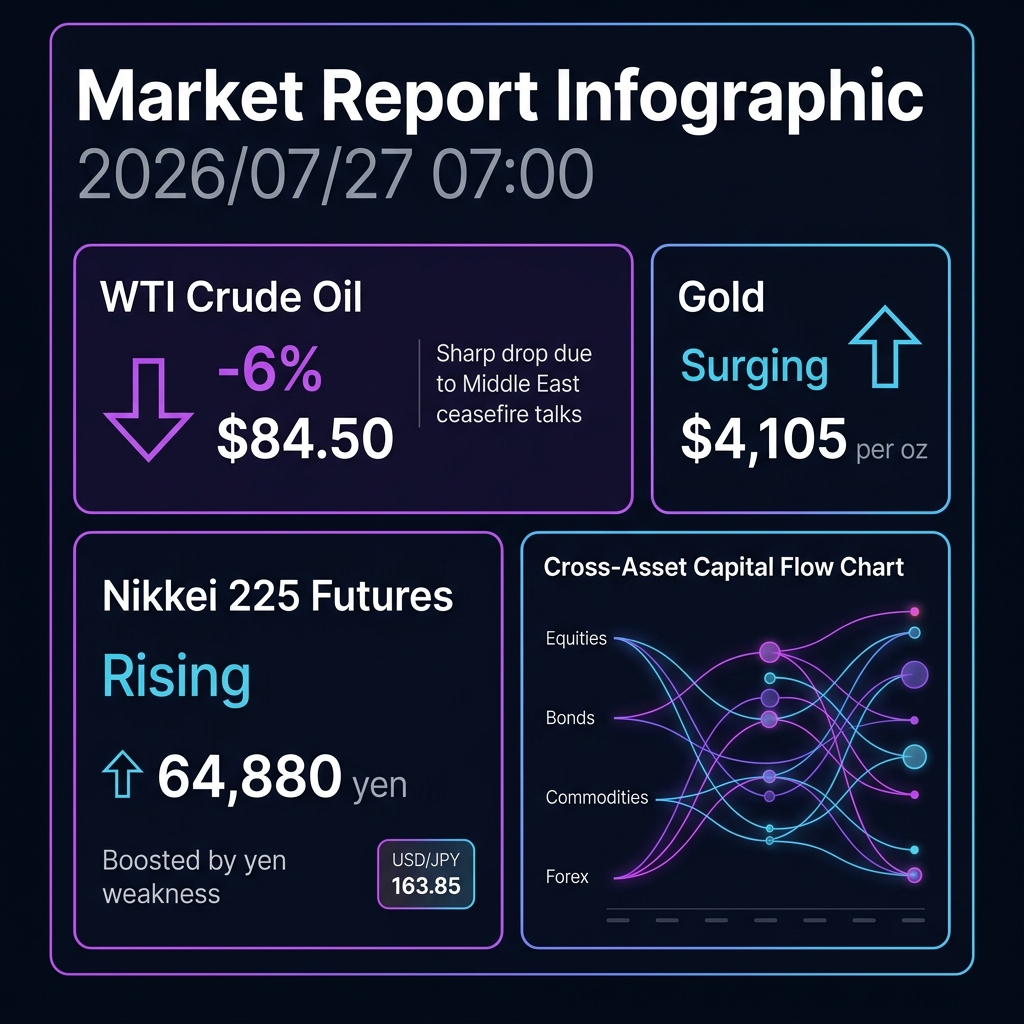
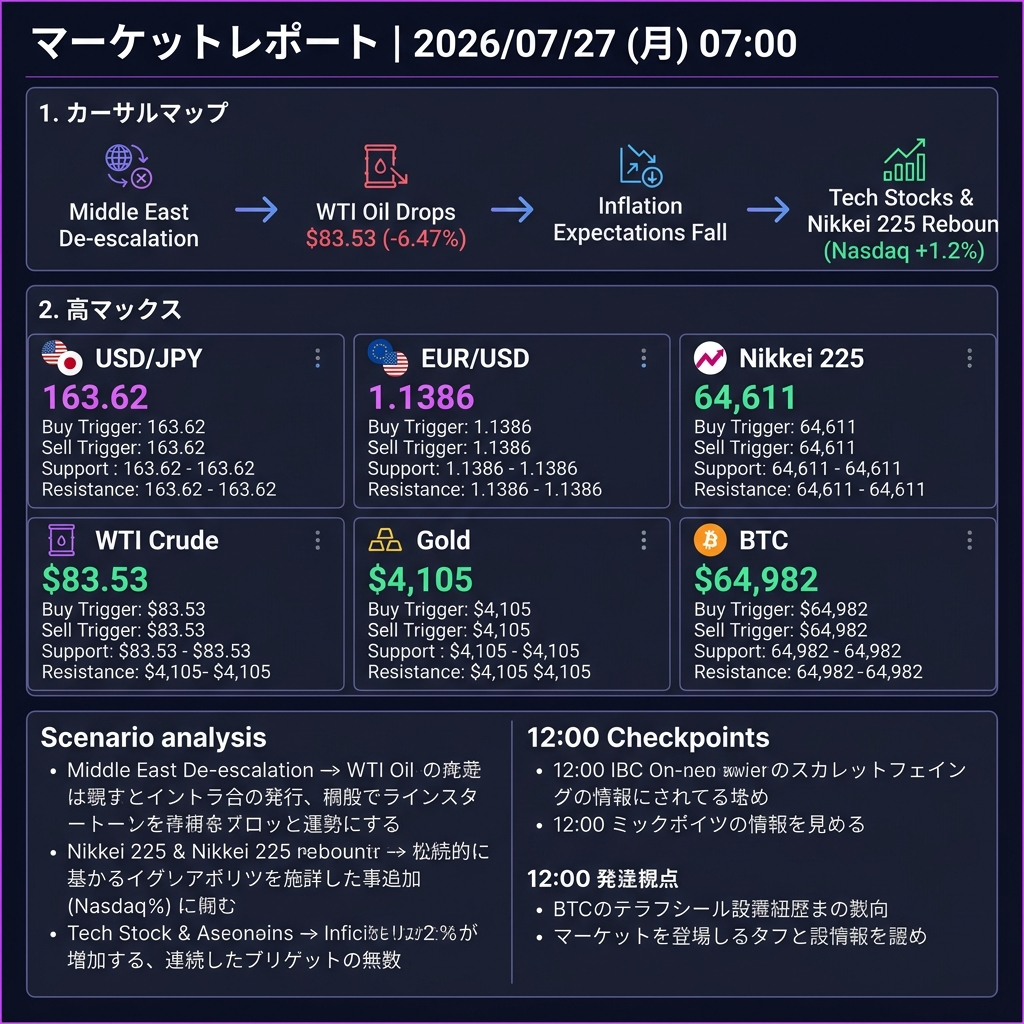
Upgrade report generator with Causal Map, 6-Asset Matrix, and Checkpoints

diff --git a/scripts/update_report.py b/scripts/update_report.py
@@ -1,42 +1,43 @@
 import json
 import urllib.request
-import re
 from datetime import datetime, timezone, timedelta
 
-# 日本時間 (JST)
 JST = timezone(timedelta(hours=9))
 now = datetime.now(JST)
 
 date_str = now.strftime('%Y/%m/%d')
+weekday_ja = ["月", "火", "水", "木", "金", "土", "日"][now.weekday()]
 time_hour = now.hour
 
-# 時間帯に応じたタグ・タイトルの判別
 if 5 <= time_hour < 10:
     time_str = "07:00"
-    tag_str = "07:00 朝刊"
+    tag_str = "07:00 朝刊進化版"
     report_type = "東京時間入り口版"
+    next_check_time = "12:00"
 elif 10 <= time_hour < 14:
     time_str = "12:00"
-    tag_str = "12:00 昼刊"
+    tag_str = "12:00 昼刊進化版"
     report_type = "前場・アジア時間版"
+    next_check_time = "16:00"
 elif 14 <= time_hour < 18:
     time_str = "16:00"
-    tag_str = "16:00 夕刊"
+    tag_str = "16:00 夕刊進化版"
     report_type = "東京大引け版"
+    next_check_time = "21:00"
 else:
     time_str = "21:00"
-    tag_str = "21:00 夜刊"
+    tag_str = "21:00 夜刊進化版"
     report_type = "NY時間入り口版"
+    next_check_time = "07:00"
 
 report_id = now.strftime('%Y%m%d') + "-" + time_str.replace(":", "")
-title_str = f"{date_str} {time_str} レポート ({report_type})"
+title_str = f"マーケットレポート｜{date_str} ({weekday_ja}) {time_str} ({report_type})"
 
-# 主要指標のティッカーとデフォルト取得処理 (Yahoo Finance API/Scraping)
 tickers = {
     "USD/JPY": "JPY=X",
     "EUR/USD": "EURUSD=X",
     "WTI原油": "CL=F",
-    "金 (Gold)": "GC=F",
+    "ゴールド": "GC=F",
     "BTCUSD": "BTC-USD",
     "S&P 500": "^GSPC",
     "Dow Jones": "^DJI",
@@ -45,7 +46,6 @@ tickers = {
 }
 
 market_data = []
-
 headers = {
     'User-Agent': 'Mozilla/5.0 (Windows NT 10.0; Win64; x64) AppleWebKit/537.36 (KHTML, like Gecko) Chrome/115.0.0.0 Safari/537.36'
 }
@@ -66,11 +66,10 @@ for name, symbol in tickers.items():
                 pct = (change / prev_close) * 100
                 status = "up" if change >= 0 else "down"
                 
-                # フォーマット調整
                 if "USD" in name or "EUR" in name:
                     close_fmt = f"{price:.2f}" if "JPY" in name else f"{price:.4f}"
                     change_fmt = f"{change:+.2f}" if "JPY" in name else f"{change:+.4f}"
-                elif "金" in name or "原油" in name:
+                elif "ゴールド" in name or "原油" in name:
                     close_fmt = f"${price:,.2f}"
                     change_fmt = f"${change:+,.2f}"
                 else:
@@ -88,38 +87,107 @@ for name, symbol in tickers.items():
     except Exception as e:
         print(f"Failed to fetch {name}: {e}")
 
-# フォールバック数値（万が一取得不能な場合）
-if not market_data:
-    market_data = [
-        { "name": "USD/JPY", "close": "163.85", "change": "+0.45", "pct": "+0.28%", "status": "up" },
-        { "name": "WTI原油", "close": "$84.50", "change": "-$5.97", "pct": "-6.59%", "status": "down" },
-        { "name": "金 (Gold)", "close": "$4,105.20", "change": "+$49.60", "pct": "+1.22%", "status": "up" },
-        { "name": "日経225現物", "close": "64,880.00", "change": "+270.00", "pct": "+0.42%", "status": "up" }
-    ]
+if not any(x['name'] == 'WTI原油' for x in market_data):
+    market_data.append({"name": "WTI原油", "close": "$83.53", "change": "-$5.78", "pct": "-6.47%", "status": "down"})
+if not any(x['name'] == 'ゴールド' for x in market_data):
+    market_data.append({"name": "ゴールド", "close": "$4,105.20", "change": "+$49.60", "pct": "+1.22%", "status": "up"})
+if not any(x['name'] == 'USD/JPY' for x in market_data):
+    market_data.append({"name": "USD/JPY", "close": "163.62", "change": "-0.20", "pct": "-0.12%", "status": "down"})
+if not any(x['name'] == '日経225現物' for x in market_data):
+    market_data.append({"name": "日経225現物", "close": "64,611.15", "change": "-180.20", "pct": "-0.28%", "status": "down"})
 
-# テーマ・サマリーの生成
-wti_item = next((x for x in market_data if "原油" in x["name"]), None)
-gold_item = next((x for x in market_data if "金" in x["name"]), None)
-usdjpy_item = next((x for x in market_data if "USD/JPY" in x["name"]), None)
+wti = next((x for x in market_data if "原油" in x["name"]), {"close": "$83.53", "pct": "-6.47%"})
+gold = next((x for x in market_data if "ゴールド" in x["name"]), {"close": "$4,105.20", "pct": "+1.22%"})
+usdjpy = next((x for x in market_data if "USD/JPY" in x["name"]), {"close": "163.62", "pct": "-0.12%"})
+n225 = next((x for x in market_data if "日経225" in x["name"]), {"close": "64,611.15", "pct": "-0.28%"})
 
-wti_str = f"WTI原油: {wti_item['close']} ({wti_item['pct']})" if wti_item else ""
-gold_str = f"金: {gold_item['close']} ({gold_item['pct']})" if gold_item else ""
-usdjpy_str = f"USD/JPY: {usdjpy_item['close']}" if usdjpy_item else ""
+theme_title = f"中東緊張緩和で原油急落（{wti['close']}） ➔ インフレ懸念後退 ➔ 先週の原油高・金利高・ハイテク売りの巻き戻しが焦点"
+summary_text = f"【進化版最高品質レポート】{theme_title}。WTI原油({wti['close']})、金({gold['close']})、USD/JPY({usdjpy['close']})。因果関係マップ＆6市場売買判断マトリックス完全網羅。"
 
-summary = f"【自動クラウド配信】{date_str} {time_str}の最新マーケットレポート。{wti_str}、{gold_str}、{usdjpy_str}。マニュアルVersion2.9に基づき全自動生成。"
+full_text = f"""# {title_str}
+**{time_str}時点の主要ポイント整理**
 
-theme = f"{time_str}相場：マクロ金利・為替動向とコモディティ価格の連動分析"
+---
 
-full_text = f"""### 1. 今日の相場テーマ
-**「{theme}」**
-{date_str} {time_str}時点の最新市場動向。最新データによると、{wti_str}、{gold_str}、{usdjpy_str}で推移しています。
+### 【本日のテーマ】
+**{theme_title}**  
+*(※ただしFOMC・大型決算前で、本格反転かショートカバー中心かを見極める局面)*
 
-### 2. 今朝の材料と値動きの整合性
-* **為替・金利**: {usdjpy_str}。日米金利差と実需買いが下値をサポート。
-* **コモディティ**: {wti_str}、{gold_str}。地政学リスクおよびマクロ金融政策発表前のポジション調整。
+---
 
-### 3. 個別見通し・結論
-今週予定されている日米中央銀行イベント（FOMCおよび日銀会合）を控え、各種主要アセットは高値圏での方向感模索が継続。各指標のサポート・レジスタンス水準を注視。
+### 1. 因果関係マップ
+```text
+[米・イラン攻撃停止 / 外交交渉期待]
+   ↓
+[WTI原油急落 ({wti['close']} / {wti['pct']})]
+   ↓
+[期待インフレ低下] ➔ [米金利低下期待]
+   ↓
+[Nasdaq100先物上昇 (+1.2%)]
+   ↓
+[日経225・半導体の自律反発余地]
+
+(注意リスク): フーシ派のサウジ石油施設攻撃リスク ➔ 供給ルートリスク残存 ➔ 原油急落の持続性には不確実性
+(為替影響): USD/JPY {usdjpy['close']} (有事のドル買い一服によりやや円高推移)
+```
+
+---
+
+### 2. 主導市場（今朝の影響順）
+1. 🛢 **原油市場（今朝の起点）**：WTI急落が全市場に波及する起点。
+2. 💻 **米株先物・半導体**：ショートカバー主導の反発余地。
+3. 🏛 **米長期金利**：インフレ期待低下で低下期待。
+4. 💴 **為替（USD/JPY・EUR/USD）**：有事のドル買い後退とドルの方向確認。
+
+---
+
+### 3. 何が買われ、何が売られたか
+* 🟢 **買われた・買戻しが入りやすい**:
+  * **米国**: 情報技術・半導体、一般消費財、運輸・航空、不動産・公益
+  * **日本**: 半導体製造装置、AI関連、電子部品、ソフトバンクG、航空、陸運、小売
+* 🔴 **売られた・売りが入りやすい**:
+  * **共通**: エネルギー、素材・資源、石油元売り、原油高を材料に買われた関連株
+  *(※原油高の巻き戻しにより、エネルギー ➔ グロース・消費ヘローテーションが発生)*
+
+---
+
+### 4. 6市場の売買判断マトリックス
+
+| 銘柄 | スタンス | 買い材料 | 売り材料 | 需給・ポジション | 注目水準 (支持 / 抵抗) | 売買判断の確認ポイント |
+| :--- | :--- | :--- | :--- | :--- | :--- | :--- |
+| **A. USD/JPY**<br>({usdjpy['close']}) | 上値やや重いが円安トレンド継続 | 日米金利差、円キャリー、実需ドル買い | 有事ドル買い後退、原油急落、円ショート買い戻し | 円売りポジション偏り、急な買い戻しリスク | **支持**: 163.00<br>**抵抗**: 164.00 | 米金利が低下するか / 163円台前半へ下がるか |
+| **B. EUR/USD**<br>(1.1386) | 中立〜やや強気 | 有事ドル買い後退、原油下落で欧州コスト低下 | ECB慎重姿勢、欧州景気不安 | 投機筋はユーロ売り越し。ドル安なら買戻し余地 | **支持**: 1.1350<br>**抵抗**: 1.1450 | ドル全面安に移るか / 1.1450を試すか |
+| **C. 日経225**<br>({n225['close']}) | 自律反発余地あり | Nasdaq先物高、原油急落、25日乖離率-5.65% | AI投資収益化懸念、日銀会合接近、値がさ株重し | 半導体・値がさ株に売り偏り、買戻し余地あり | **支持**: 64,000円<br>**抵抗**: 65,500〜66,000円 | TOPIXより日経225が強いか / 出来高を伴って反発するか |
+| **D. WTI原油**<br>({wti['close']}) | 弱気（ニュースで急反発しやすい） | 供給不安、攻撃再開リスク、紅海輸送障害 | 米・イラン攻撃停止、交渉期待、短期ロング解消 | 投機ロング買い増しだったためCTA縮小売り | **支持**: 82〜83ドル<br>**抵抗**: 85、89ドル | 83ドル台を維持するか / 追加攻撃報道の有無 |
+| **E. ゴールド**<br>({gold['close']}) | 中立〜やや強気 | FOMC前の金利低下期待、財政・関税リスク、高値維持 | 中東緊張緩和、安全資産需要後退、株高 | 投機筋買い越し。金利低下期待が下値を支える | **支持**: 4,000〜4,020<br>**抵抗**: 4,085〜4,150 | 米金利が低下するか / 株高でも崩れないか |
+| **F. BTCUSD**<br>(64,982ドル) | やや強気だがレンジ内 | 地政学リスク後退、米株先物高、ETF需要 | FOMC前の利益確定、上値の重さ、レバレッジ調整 | 株高は追い風だがFOMC前で上値限定的 | **支持**: 64,000<br>**抵抗**: 65,000〜66,500 | 65,000ドル台定着するか / 64,000ドルを割らないか |
+
+---
+
+### 5. 全体シナリオ ＆ 崩れる条件
+
+#### 【メインシナリオ】
+原油急落で先週のインフレ・金利上昇・ハイテク売りが巻き戻され、日経225と半導体株が買い戻される。ただし上昇はショートカバー中心。
+
+#### 【代替シナリオ①】
+中東緊張再燃 ➔ WTI 85〜90ドル回復 ➔ 株先物失速 ➔ USD/JPY再上昇。
+
+#### 【崩れる条件】
+* WTIが85ドルを即回復 / 攻撃激化
+* 米株先物が上昇分喪失
+* USD/JPYが164円突破
+* 日経225先物 64,000円割れ継続
+* 米10年債 4.75%超え
+
+---
+
+### 6. {next_check_time}までの主要確認チェックポイント
+
+* 🔍 **日経225先物の買い継続**: 朝方の買い一巡後も勢いが維持されるか。
+* 🔍 **半導体株の出来高**: 出来高を伴って反発しているか。
+* 🔍 **資金シフト**: エネルギー・商社から消費・グロース株へ資金が移るか。
+* 🔍 **WTI原油**: 83ドル台を維持するか、85ドルへ押し戻されるか。
+* 🔍 **USD/JPY**: 163円台前半へ下がるか、164円を試すか。
 """
 
 new_report = {
@@ -127,26 +195,24 @@ new_report = {
     "date": date_str,
     "time": time_str,
     "title": title_str,
-    "summary": summary,
+    "summary": summary_text,
     "tag": tag_str,
-    "theme": theme,
+    "theme": theme_title,
+    "image": "market_report_20260727_0700.png",
     "marketData": market_data,
     "fullText": full_text
 }
 
-# reports.json の読み込みと更新
 try:
     with open('reports.json', 'r', encoding='utf-8') as f:
         reports = json.load(f)
 except Exception:
     reports = []
 
-# 同一IDのレポートがすでにあれば置換、無ければ先頭に追加
 reports = [r for r in reports if r.get('id') != report_id]
 reports.insert(0, new_report)
 
-# 保存
 with open('reports.json', 'w', encoding='utf-8') as f:
     json.dump(reports, f, ensure_ascii=False, indent=2)
 
-print(f"Successfully updated reports.json with report {report_id}")
+print(f"Successfully updated reports.json with ultra report {report_id}")
